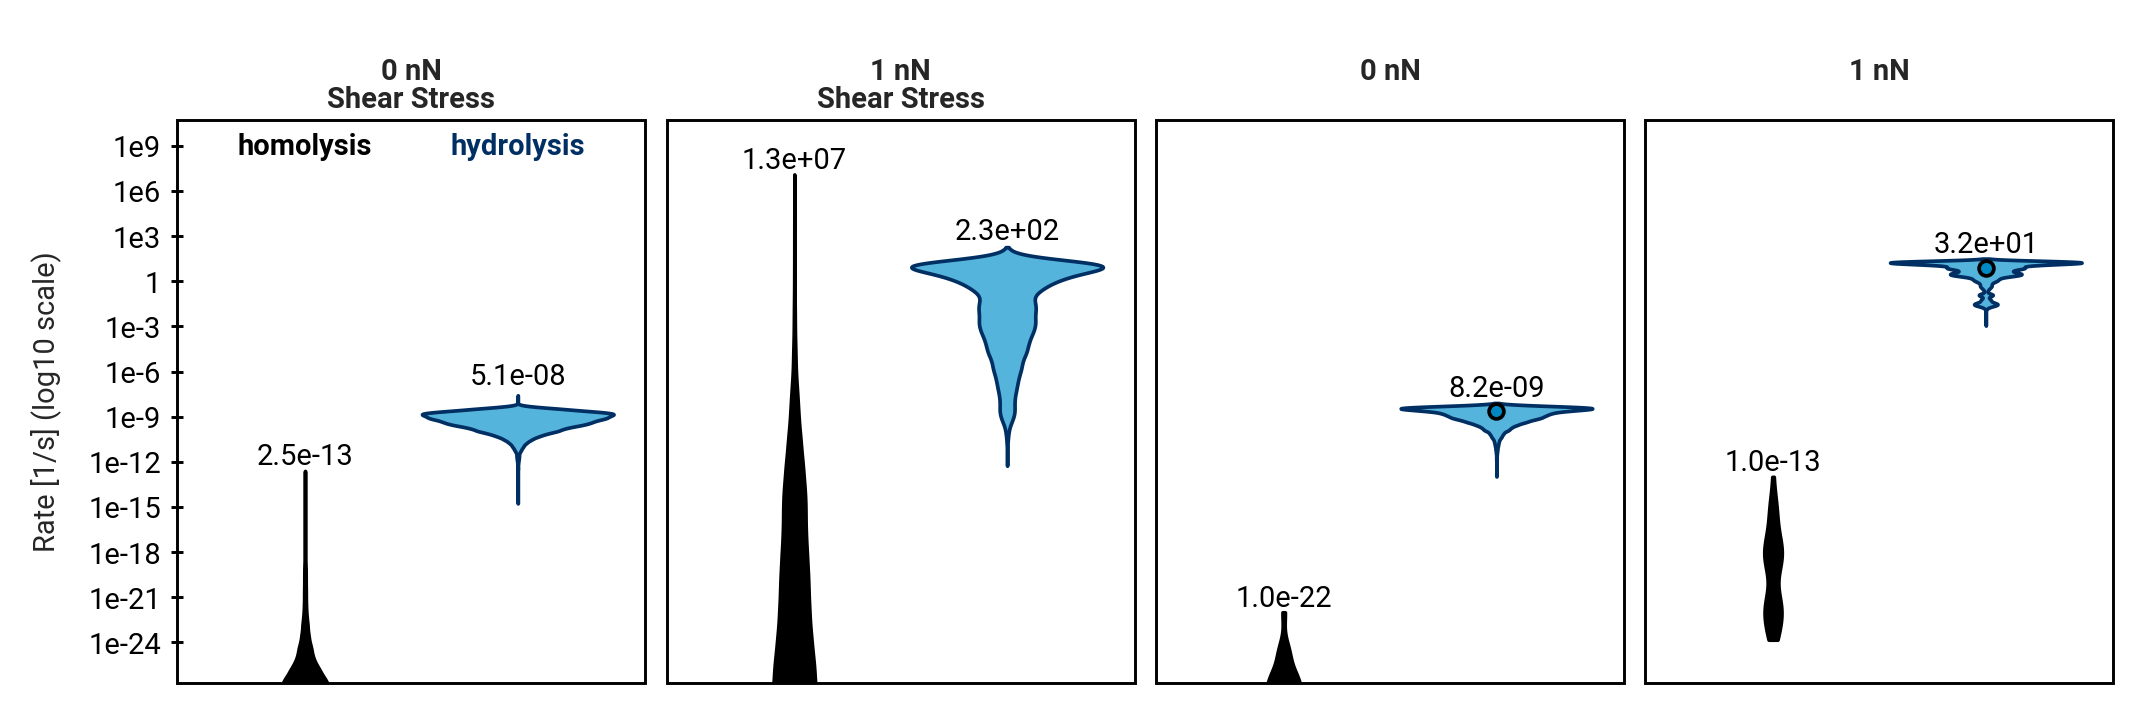
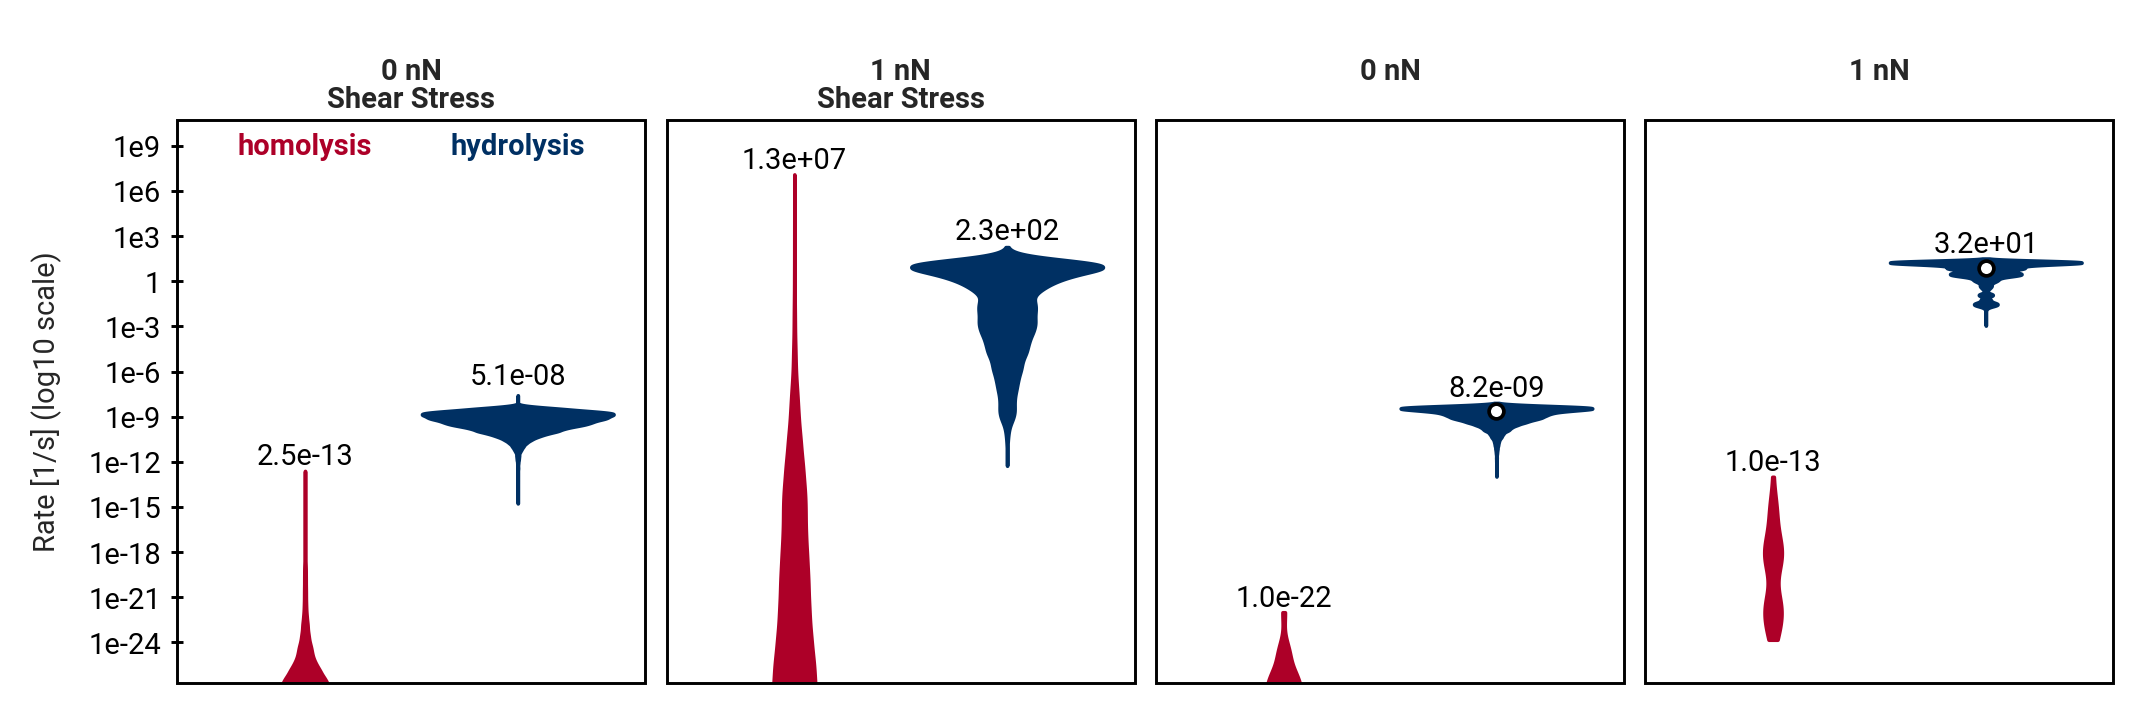
colors

diff --git a/src/thesis_style.py b/src/thesis_style.py
@@ -27,6 +27,10 @@ HITS_MAGENTA_LIGHT = "#da7da6"
 HITS_YELLOW = "#ffcc00"
 HITS_YELLOW_LIGHT = "#ffe07d"
 
+RED="#cc0130"
+DARK_RED="#ad0028"
+
+
 # https://www.mpikg.mpg.de/6339023/Logo-Guide-Print-_-Max-Planck-Gesellschaft.pdf
 MPG_grey_dark = "#777777"
 MPI_GREEN = "#006c66"
